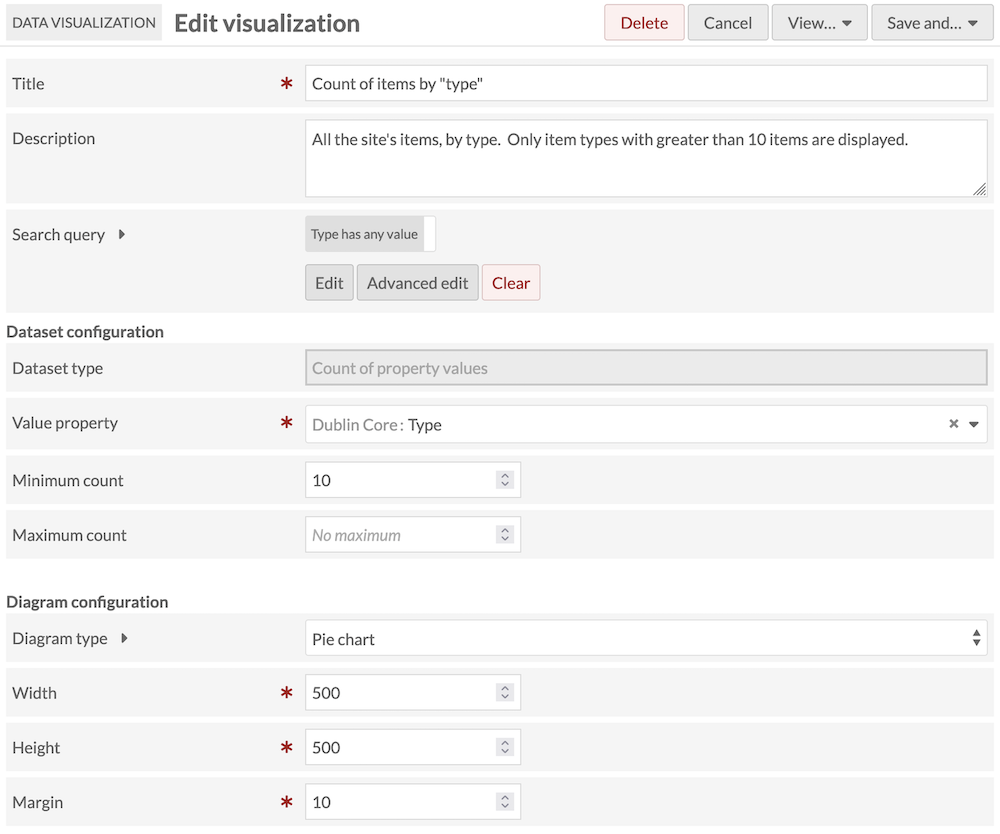
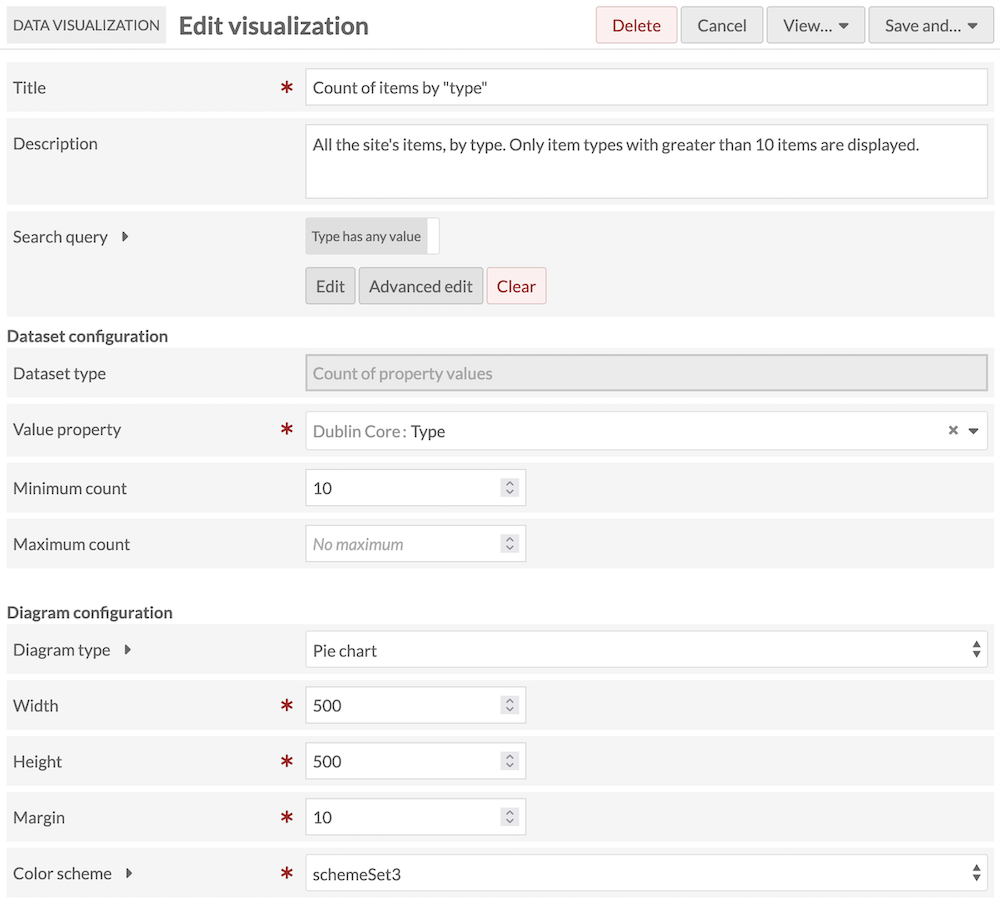
Dataviz colors
Closes https://github.com/omeka-s-modules/Datavis/issues/31

diff --git a/docs/modules/datavisualization.md b/docs/modules/datavisualization.md
@@ -138,7 +138,7 @@ And the network graph diagram:
 !!! note
 	If you make changes to any of the settings above this section, you will need to re-generate your dataset in order to see the results in your diagram. Changes made below this point in the configuration page do not require refreshing the dataset. However, when viewing the resulting diagram, we recommend you hard-refresh the public page to ensure changes are being loaded correctly.
 
-Under Diagram Configuration, you will be able to select the kind of diagram you would like to produce for your visualization, then specify dimensions and other visual settings. 
+Under Diagram Configuration, you will be able to select the kind of diagram you would like to produce for your visualization, then specify colors, dimensions, and other visual settings. 
 
 #### "Count of" diagrams
 
@@ -148,11 +148,15 @@ There are no links in these diagrams that would allow users to browse the collec
 
 If you select **bar chart** or **column chart**, you will be asked to input the width and height of your visualization as well as the top, right, bottom, and left margins. Additionally, you will be able to use a dropdown menu to order your data by value (ascending), by value (descending), by label (ascending), or by label (descending).
 
-If you select **pie chart**, you will only be asked to input the width, height, and margins. Pie charts are always circles; slices are always arranged by largest to smallest, clockwise. Slice colors are predetermined and cannot be customized.
+If you select **pie chart**, you will only be asked to input the width, height, and margins. Pie charts are always circles; slices are always arranged by largest to smallest, clockwise. 
 
 The image below shows the admin screen for configuring a column chart:
 
 ![Diagram configuration form for a Column chart](modulesfiles/dataviz_diagramConfig.png)
+
+For bar and column charts, you can choose a single color for the entire diagram by entering a six-digit hexadecimal color code. For pie charts, you can choose a color scheme that supplies a number of complementary colors from the dropdown. Use [the link in the help text (expanded by clicking on the arrow next to "Color scheme") to see the options](https://d3js.org/d3-scale-chromatic/categorical){target=_blank}. 
+
+![Some of the diiagram color schemes available for pie charts, as seen on the D3 page linked in the help text.](modulesfiles/dataviz_diagramColors.png)
 
 #### Date-based diagrams
 
@@ -215,6 +219,8 @@ You can choose to order your items by the grouping set above, or alphabetically 
 
 You can set the text size (from extra-extra-small to extra-extra-large) and the space between the text (in pixels). Depending on how many items are in your diagram, or the total size generated by the arcs, you may see the text size change when you modify the diagram settings. Use the "Label font size" setting to compensate for this as needed. Spacing is a numerical setting that will not be affected by other changes, but should be adjusted alongside a change to the text size. Also adjust the top and bottom margins if your text size change results in the top and bottom item labels being cut off.
 
+You can choose a color scheme that supplies a number of complementary colors from the dropdown. Use [the link in the help text (expanded by clicking on the arrow next to "Color scheme") to see the options](https://d3js.org/d3-scale-chromatic/categorical){target=_blank}. 
+
 ##### Network graph diagrams
 
 ![A network diagram, as above, with an item highlighted showing its pop-up box.](modulesfiles/dataviz_network-highlight.png)
@@ -230,6 +236,8 @@ When an item is clicked, its circle will become highlighted with a black border,
 This diagram provides links that allow users to browse the included items. 
 
 When you select a network graph diagram, you will only have the options of setting a width and height for your diagram. Items will automatically cluster in a circle around the central point of your diagram, within the diameter specified by your smallest dimension, so we recommend keeping your dimensions square. 
+
+You can choose a color scheme that supplies a number of complementary colors from the dropdown. Use [the link in the help text (expanded by clicking on the arrow next to "Color scheme") to see the options](https://d3js.org/d3-scale-chromatic/categorical){target=_blank}. 
 
 ### Generate your visualization
 
